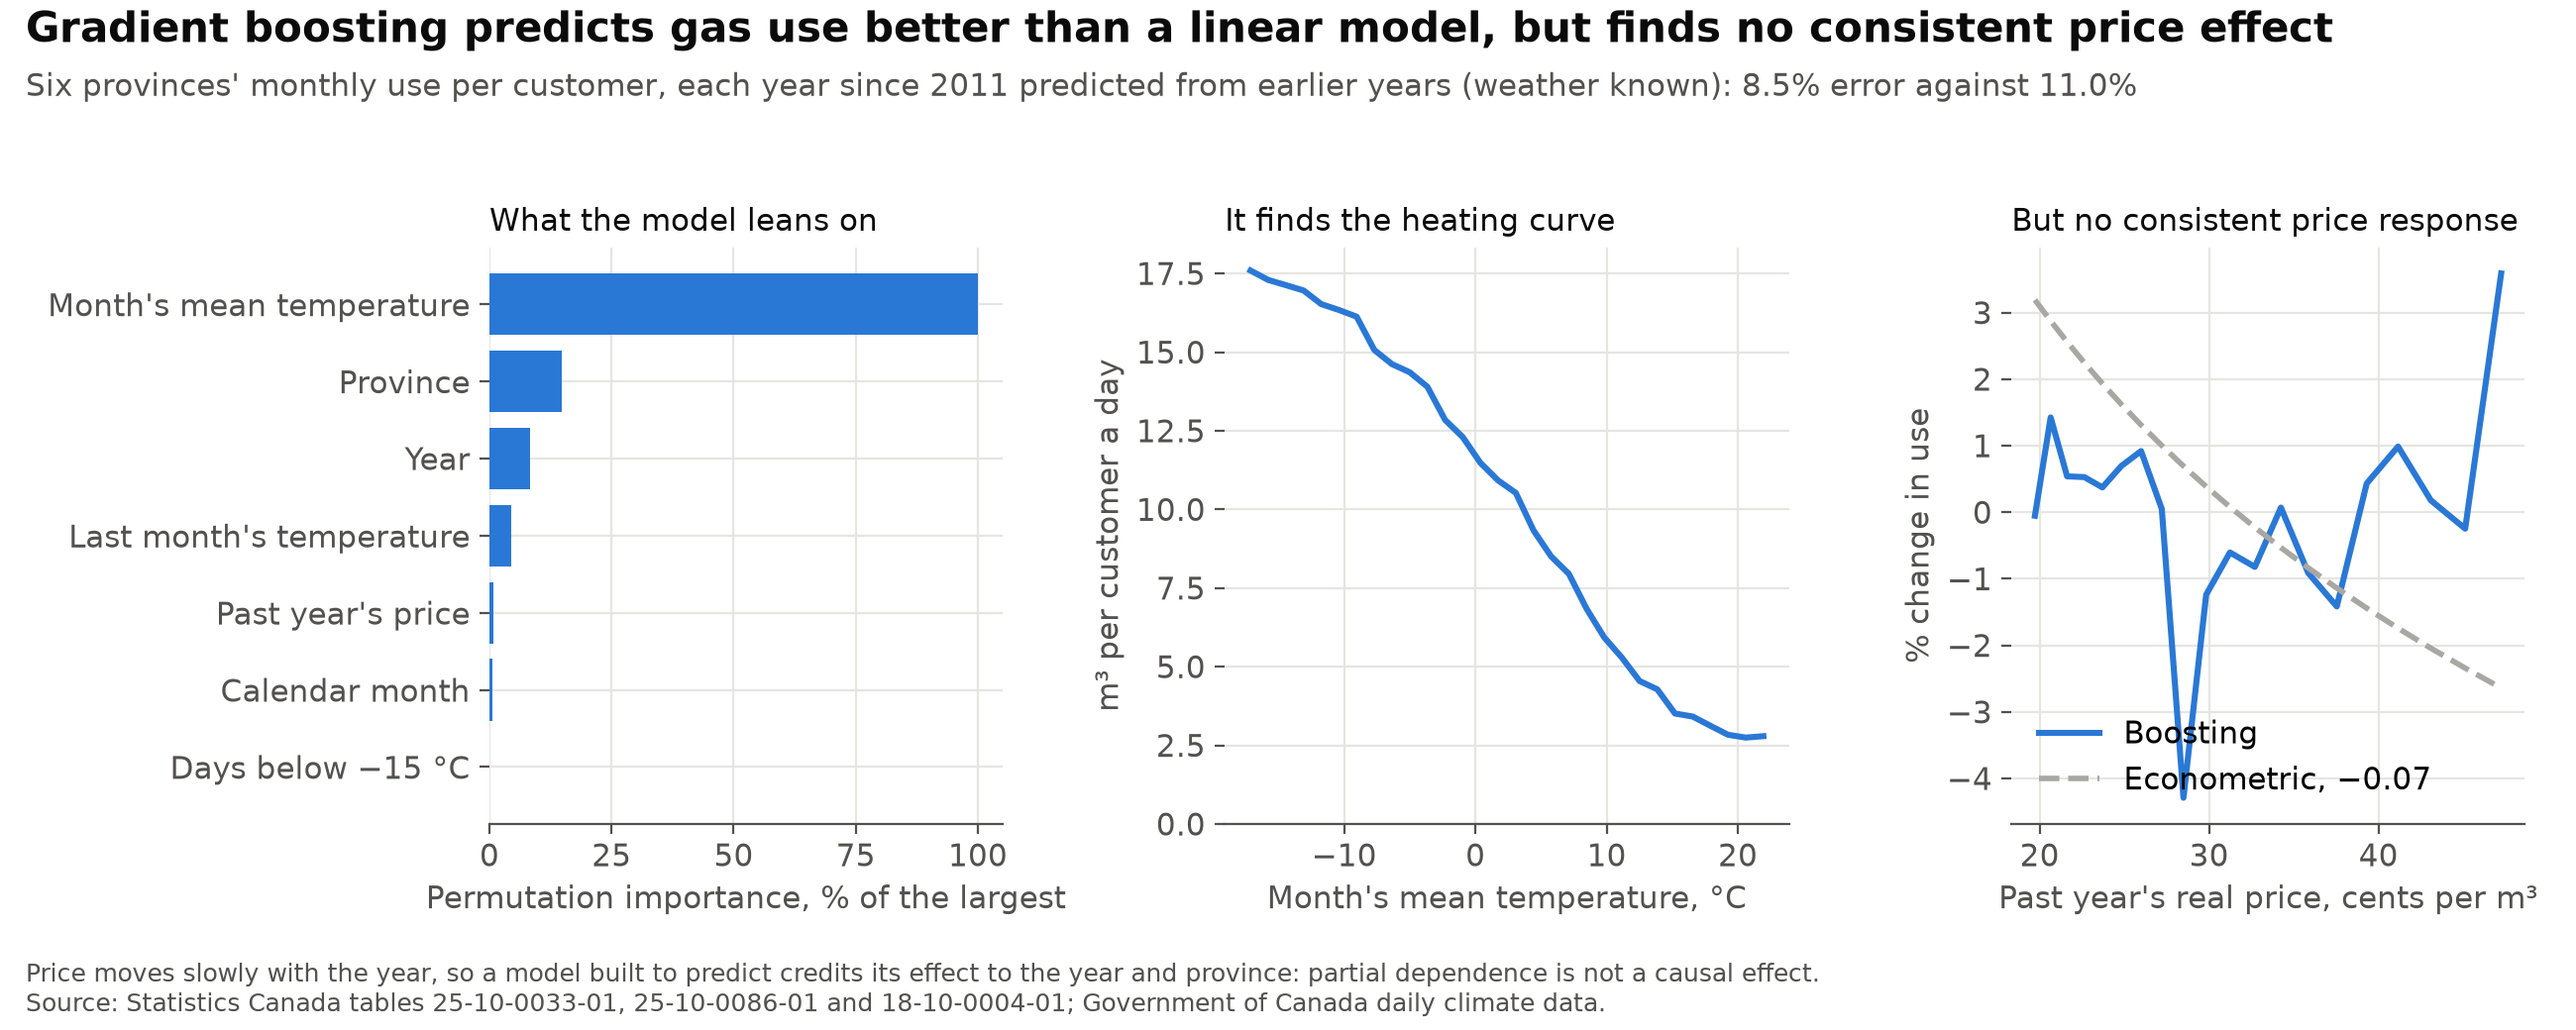
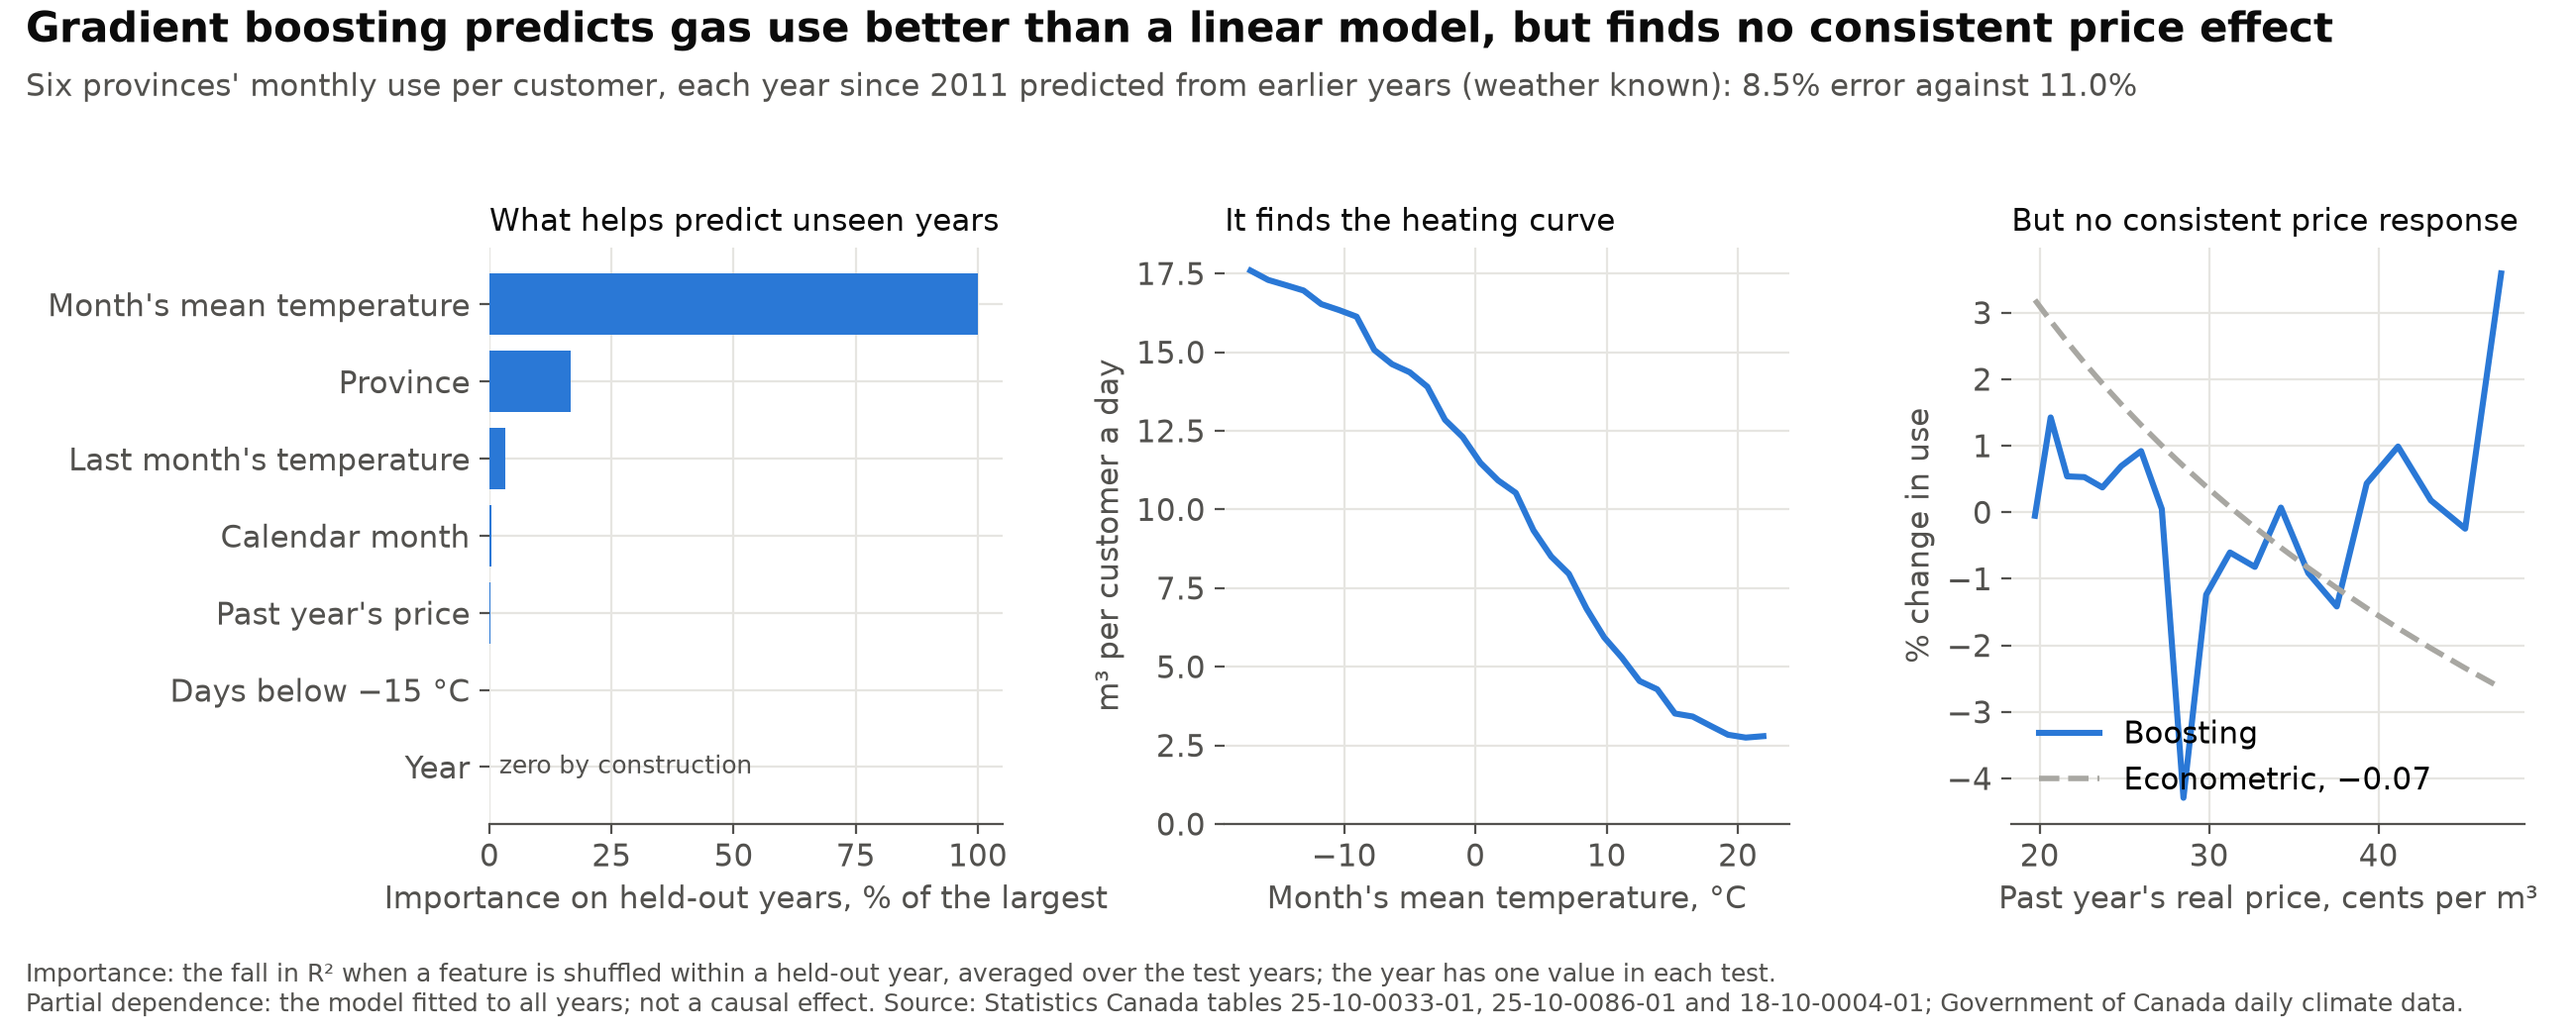
Score permutation importance on held-out years
Importance was scored on the rows the model was fitted to, which favours what
trees can memorise. It now uses the yearly folds in compare(), averaged across
the 16 test years. The year scores zero by construction, since each test holds
one year. Price stays fifth of seven.

diff --git a/heating.py b/heating.py
@@ -201,16 +201,20 @@ def linear(train, test):
 
 
 def compare(f, first=2011):
-    """Each year from `first` predicted by models fitted only to earlier years, the weather known: absolute error as
-    a % of use per customer."""
-    rows = {}
+    """Each year from `first` predicted by models fitted only to earlier years, the weather known. Returns the absolute
+    error as a % of use per customer, and each feature's importance by year: the fall in R² when it is shuffled among
+    that year's rows, which the model has not seen. Scored on the rows a model was fitted to, importance favours what
+    trees can memorise. The year has one value in each test, so it scores zero by construction."""
+    rows, shuffled = {}, {}
     for year in range(first, f.year.max() + 1):
         train, test = f[f.year < year], f[f.year == year].sort_values("province", kind="stable")
-        boosted = np.exp(boosting().fit(train[FEATURES], train.y).predict(test[FEATURES]))
+        model = boosting().fit(train[FEATURES], train.y)
+        boosted = np.exp(model.predict(test[FEATURES]))
         lin = np.exp(np.concatenate([linear(train[train.province == p], t) for p, t in test.groupby("province")]))
         actual = np.exp(test.y.to_numpy())
         rows[year] = {"boosting": np.abs(boosted - actual).sum() / actual.sum(), "linear": np.abs(lin - actual).sum() / actual.sum()}
-    return pd.DataFrame(rows).T.rename_axis("year") * 100
+        shuffled[year] = permutation_importance(model, test[FEATURES], test.y, n_repeats=10, random_state=0).importances_mean
+    return pd.DataFrame(rows).T.rename_axis("year") * 100, pd.DataFrame(shuffled, index=FEATURES).T.rename_axis("year")
 
 
 def main():
@@ -227,17 +231,23 @@ def main():
     pd.concat(trends, names=["province"]).droplevel(1).round(2).astype({"from_low_90": "Int64", "from_high_90": "Int64"})         .to_csv(gas.OUTPUT / "trend_segments.csv")
 
     f = learning_frame(series, temperatures)
-    errors = compare(f)
-    model = boosting().fit(f[FEATURES], f.y)
-    importance = permutation_importance(model, f[FEATURES], f.y, n_repeats=10, random_state=0)
-    importance = pd.Series(importance.importances_mean, FEATURES).sort_values()
+    errors, by_year = compare(f)
+    importance = by_year.mean().sort_values()
+    model = boosting().fit(f[FEATURES], f.y)  # for partial dependence
     by_temp = partial_dependence(model, f[FEATURES], ["temp"], grid_resolution=30, percentiles=(0.02, 0.98), method="brute")
     by_price = partial_dependence(model, f[FEATURES], ["log_price_past_year"], grid_resolution=20, percentiles=(0.05, 0.95), method="brute")
     price_slope = np.polyfit(by_price["grid_values"][0], by_price["average"][0], 1)[0]
     errors.round(2).to_csv(gas.OUTPUT / "boosting_errors.csv")
-    importance.round(5).rename("importance").rename_axis("feature").to_csv(gas.OUTPUT / "boosting_importance.csv")
+    pd.DataFrame({"importance": importance, "sd_across_years": by_year.std()[importance.index],
+                  "years_above_zero": (by_year > 0).sum()[importance.index]}).round(5).rename_axis("feature") \
+        .to_csv(gas.OUTPUT / "boosting_importance.csv")
     print(f"{len(f)} province-months; % error by year:\n", errors.round(1).to_string())
-    print("Mean:", errors.mean().round(2).to_dict(), "\nPermutation importance:", importance.round(4).to_dict())
+    print("Mean:", errors.mean().round(2).to_dict(), "\nHeld-out permutation importance:", importance.round(4).to_dict())
+    print("By test year:\n", by_year.round(4).to_string())
+    tested = f[f.year >= errors.index[0]]
+    within = tested.log_price_past_year - tested.groupby("year").log_price_past_year.transform("mean")
+    print("Share of the price's variance within a test year that lies between provinces: "
+          f"{within.groupby([tested.year, tested.province]).transform('mean').var() / within.var():.0%}")
     print(f"Slope of the partial dependence on log price (an elasticity, if it were causal): {price_slope:.3f}")
 
     plt.rcParams.update(gas.STYLE)
@@ -274,8 +284,9 @@ def main():
     fig, (a1, a2, a3) = plt.subplots(1, 3, figsize=(13, 5.2), gridspec_kw={"width_ratios": [1, 1.1, 1]})
     fig.subplots_adjust(top=0.76, bottom=0.2, wspace=0.42, left=0.19, right=0.98)
     a1.barh([names[k] for k in importance.index], importance / importance.max() * 100, color=BLUE)
-    a1.set_xlabel("Permutation importance, % of the largest")
-    a1.set_title("What the model leans on", loc="left", color=INK, fontsize=11)
+    a1.text(2, list(importance.index).index("year"), "zero by construction", va="center", color=MUTED, fontsize=9)
+    a1.set_xlabel("Importance on held-out years, % of the largest")
+    a1.set_title("What helps predict unseen years", loc="left", color=INK, fontsize=11)
     a2.plot(by_temp["grid_values"][0], np.exp(by_temp["average"][0]), color=BLUE, lw=2.2)
     a2.set_xlabel("Month's mean temperature, °C")
     a2.set_ylabel("m³ per customer a day")
@@ -291,8 +302,9 @@ def main():
     gas.save(fig, "ml_drivers.png", "Gradient boosting predicts gas use better than a linear model, but finds no consistent price effect",
              f"Six provinces' monthly use per customer, each year since {errors.index[0]} predicted from earlier years "
              f"(weather known): {errors.boosting.mean():.1f}% error against {errors.linear.mean():.1f}%",
-             "Price moves slowly with the year, so a model built to predict credits its effect to the year and province: partial "
-             "dependence is not a causal effect.\n" + gas.SOURCE)
+             "Importance: the fall in R² when a feature is shuffled within a held-out year, averaged over the test years; the "
+             "year has one value in each test.\nPartial dependence: the model fitted to all years; not a causal effect. "
+             + gas.SOURCE)
 
 
 if __name__ == "__main__":

diff --git a/tests/test_heating.py b/tests/test_heating.py
@@ -34,3 +34,28 @@ def test_linear_benchmark_ignores_a_reporting_level_not_yet_seen():
     f["y"] = 1.0 + 0.002 * f.hdd - 0.3 * f.since_2019
     train, test = f[f.year < 2019], f[f.year == 2019]
     assert np.allclose(heating.linear(train, test), 1.0 + 0.002 * test.hdd)  # the new level is unknown beforehand
+
+
+def test_importance_is_scored_on_held_out_years_so_memorised_noise_counts_for_nothing(monkeypatch):
+    rng = np.random.default_rng(2)
+    months = pd.period_range("1990-01", "2015-12", freq="M")
+    f = pd.concat(pd.DataFrame({
+        "temp": 8 - 12 * np.cos(2 * np.pi * months.month / 12) + rng.normal(0, 3, len(months)),
+        "temp_last": rng.normal(0, 1, len(months)), "cold_days": 0.0, "month": months.month, "year": months.year,
+        "log_price_past_year": rng.normal(-1, 0.2, len(months)), "province": p}) for p in range(3)).reset_index(drop=True)
+    f["hdd"], f["hdd_last"] = (18 - f.temp).clip(lower=0), 0.0
+    f["y"] = 2 - 0.05 * f.temp + 0.3 * f.province + rng.normal(0, 0.1, len(f))  # temp_last and price do nothing
+
+    seen, real = [], heating.permutation_importance
+    monkeypatch.setattr(heating, "permutation_importance",
+                        lambda model, X, y, **k: seen.append(sorted(X.year.unique())) or real(model, X, y, **k))
+    _, by_year = heating.compare(f, first=2012)
+    assert seen == [[y] for y in range(2012, 2016)]  # each year's rows only
+    assert list(by_year.index) == list(range(2012, 2016))
+    assert (by_year.year == 0).all()  # one value in each test, so nothing to shuffle
+
+    mean = by_year.mean()
+    assert mean.idxmax() == "temp" and abs(mean.temp_last) < 0.02
+    model = heating.boosting().fit(f[heating.FEATURES], f.y)
+    in_sample = real(model, f[heating.FEATURES], f.y, n_repeats=10, random_state=0).importances_mean
+    assert in_sample[heating.FEATURES.index("temp_last")] > mean.temp_last + 0.01  # trees memorise noise they were fitted to

diff --git a/README.md b/README.md
@@ -80,11 +80,11 @@ A price elasticity of −0.1 means a 10% higher real price cuts gas use per cust
 
 ### 5. What does machine learning see?
 
-![What gradient boosting leans on, and its partial dependence on temperature and price](figures/ml_drivers.png)
+![What helps gradient boosting predict unseen years, and its partial dependence on temperature and price](figures/ml_drivers.png)
 
 - **Gradient boosting predicts better than a linear model.** On 3,104 province-months in six provinces, gradient-boosted trees on the month's and last month's temperature, days below −15 °C, calendar month, year, the past year's price and the province predict each year from 2011 to August 2026, trained only on earlier years with the weather known, with an average error of 8.5%, against 11.0% for a linear model of each province with heating degree days, month, trend, price and reporting levels.
-- **It finds the heating curve.** Permutation importance puts the month's temperature far ahead of everything else, and partial dependence on it traces the heating curve, flattening in the coldest months.
-- **It finds no consistent price effect, and that is the lesson.** Partial dependence on the past year's price wobbles with no trend (slope +0.003, against −0.07 from the pooled econometric estimate), and price ranks fifth in importance. Price moves slowly with the year and differs by province, so a model built to predict credits its effect to those. Predicting use and estimating the response to price are different jobs: the price response comes from the econometric models, which separate price from trend and weather by design.
+- **It finds the heating curve.** Scored on years the model had not seen, permutation importance puts the month's temperature far ahead of everything else: shuffling it lowers R² by 1.36, against 0.23 for the province and 0.05 for last month's temperature. Partial dependence on temperature traces the heating curve, flattening in the coldest months.
+- **It finds no consistent price effect, and that is the lesson.** Partial dependence on the past year's price wobbles with no trend (slope +0.003, against −0.07 from the pooled econometric estimate). On held-out years, shuffling price lowers R² by 0.003, fifth of seven features, and it helps not at all in 2 of the 16 test years. Within a test year, 97% of the differences in price lie between provinces, so the province already carries most of what price could add. The test cannot score the year: each test holds one year, so there is nothing to shuffle and it scores zero by construction. None of this shows that households ignore price. Predicting use and estimating the response to price are different jobs: the price response comes from the econometric models, which separate price from trend and weather by design.
 
 ## Method
 
@@ -108,7 +108,7 @@ Every model also allows a separate level from 2016, when the table changes. The 
 
 **6. Forecasts.** Residential volume in BC (from 1990) and Ontario (from 2001), in logs, from a seasonal ARIMA(1,0,1)(0,1,1)₁₂ with this month's and last month's heating degree days (bills lag the weather), exponential smoothing with a damped trend, and the same month last year. From each month since December 2012, each is fitted only to the data up to then and forecasts 12 months, with each month's heating degree days ahead set to its average over the previous 30 years; the ARIMA is run again with the heating degree days that came. Errors are absolute % errors weighted by volume. Conformal ranges: at each horizon, the 80th percentile of the absolute % errors of earlier forecasts whose outcomes were known at the time (once there are 24). The range for the next 12 months' total comes from the errors of all earlier 12-month totals.
 
-**7. Machine learning.** scikit-learn's histogram gradient boosting (400 trees, learning rate 0.05, the province as a categorical feature) on log use per customer per day, tested year by year from 2011 with an expanding window. Permutation importance (10 repeats) and partial dependence (averaged over all province-months) come from the model fitted to all years.
+**7. Machine learning.** scikit-learn's histogram gradient boosting (400 trees, learning rate 0.05, the province as a categorical feature) on log use per customer per day, tested year by year from 2011 with an expanding window. Permutation importance (10 repeats) is scored on each held-out year by the model fitted to the years before it, as the fall in R² when one feature is shuffled among that year's rows, then averaged over the 16 test years. Partial dependence (averaged over all province-months) comes from the model fitted to all years.
 
 All estimates are in [`output/`](output): the price responses in [`elasticities.csv`](output/elasticities.csv), [`elasticity_over_time.csv`](output/elasticity_over_time.csv), [`provinces.csv`](output/provinces.csv) and [`provinces_pooled.csv`](output/provinces_pooled.csv); the heating curves and trends in [`heating_curves.csv`](output/heating_curves.csv) and [`trend_segments.csv`](output/trend_segments.csv); the forecasts and their errors in [`forecast.csv`](output/forecast.csv), [`forecast_total.csv`](output/forecast_total.csv), [`forecast_errors.csv`](output/forecast_errors.csv), [`forecast_years.csv`](output/forecast_years.csv) and [`forecast_coverage.csv`](output/forecast_coverage.csv); the machine-learning results in [`boosting_errors.csv`](output/boosting_errors.csv) and [`boosting_importance.csv`](output/boosting_importance.csv); the annual series in [`annual.csv`](output/annual.csv); and the data for the write-up's interactive charts in `gas-data.js`. The data handling and models are checked by the tests in [`tests/`](tests), which run on every push, including the models recovering known elasticities, a known heating curve, a known average and spread, and a planted trend break from simulated data, and conformal ranges built only from errors known at the time.
 
@@ -121,6 +121,7 @@ All estimates are in [`output/`](output): the price responses in [`elasticities.
 - **The added provinces' reporting levels are inferred.** Manitoba's 2007 and Quebec's 2019 levels come from jumps in the data tested in the model, not from documentation of how the tables changed, and the six-province results depend on them.
 - **Year-round use is whatever does not follow the temperature.** Besides more efficient water heaters and appliances, a changing mix of customers, such as smaller new homes or apartment buildings counted as one customer, moves it. Quebec's heating curves fit least well.
 - **Forecasts assume normal weather,** which is most of their error, and partial dependence shows what a model learned from the data, not what would happen if one input changed alone.
+- **Importance shuffles one feature at a time.** Features that overlap, such as temperature and calendar month or price and province, can stand in for each other, so a low score does not mean the model would do as well without that feature.
 - **Prices are not set by an experiment.** Residential gas rates are regulated and follow wholesale markets, so they respond little to one province's demand within a year, but the estimates are associations under the model's assumptions, not proof of cause.
 - **Short samples and a model choice.** The annual models have 32–44 years. How much the elasticity appears to change over time depends on including the efficiency trend: without it, the elasticity drifts to implausible positive values after 2010.
 
